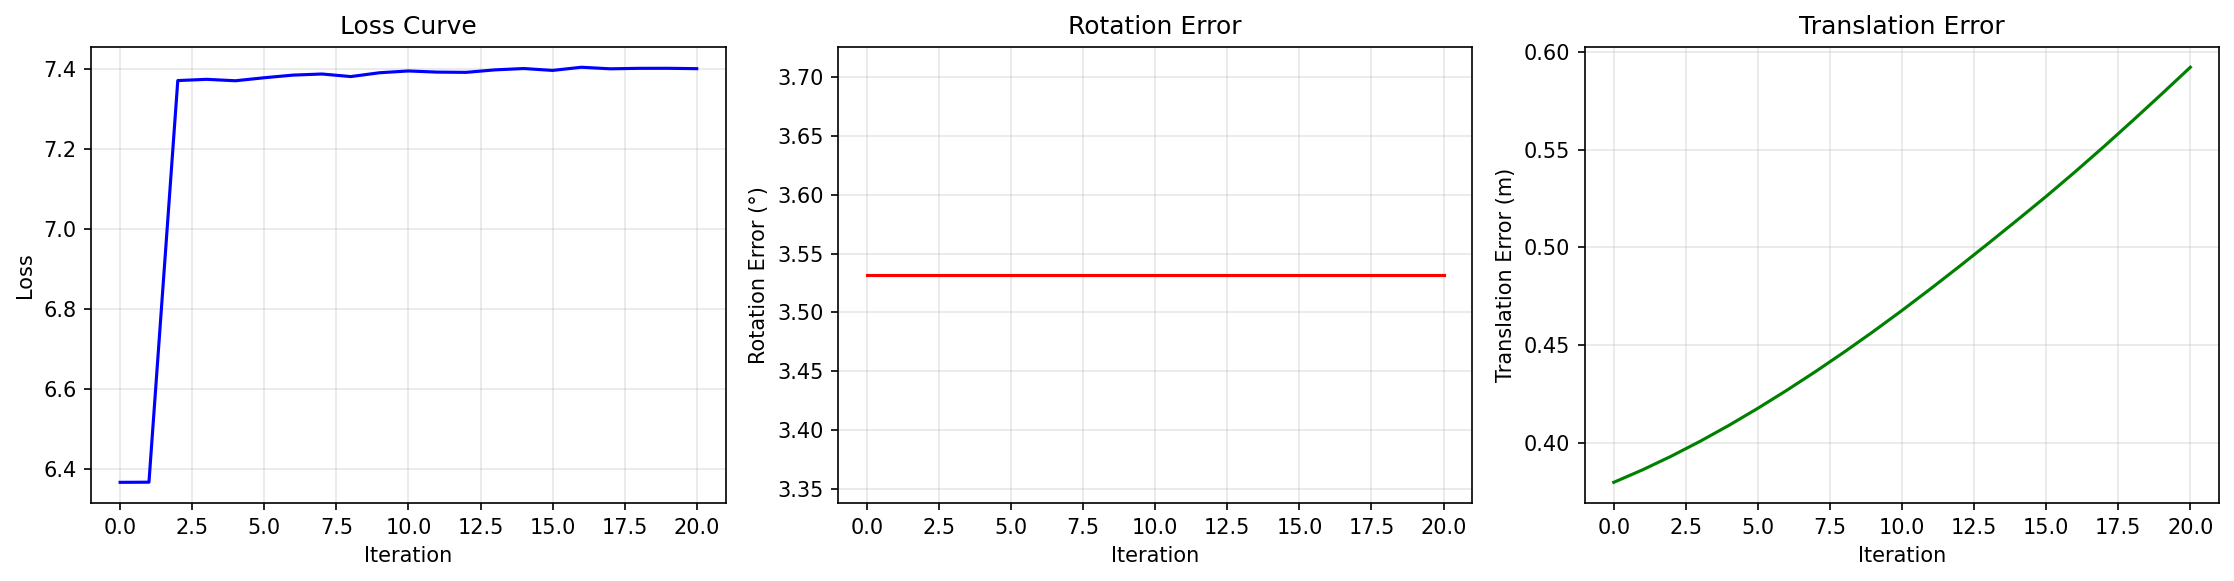
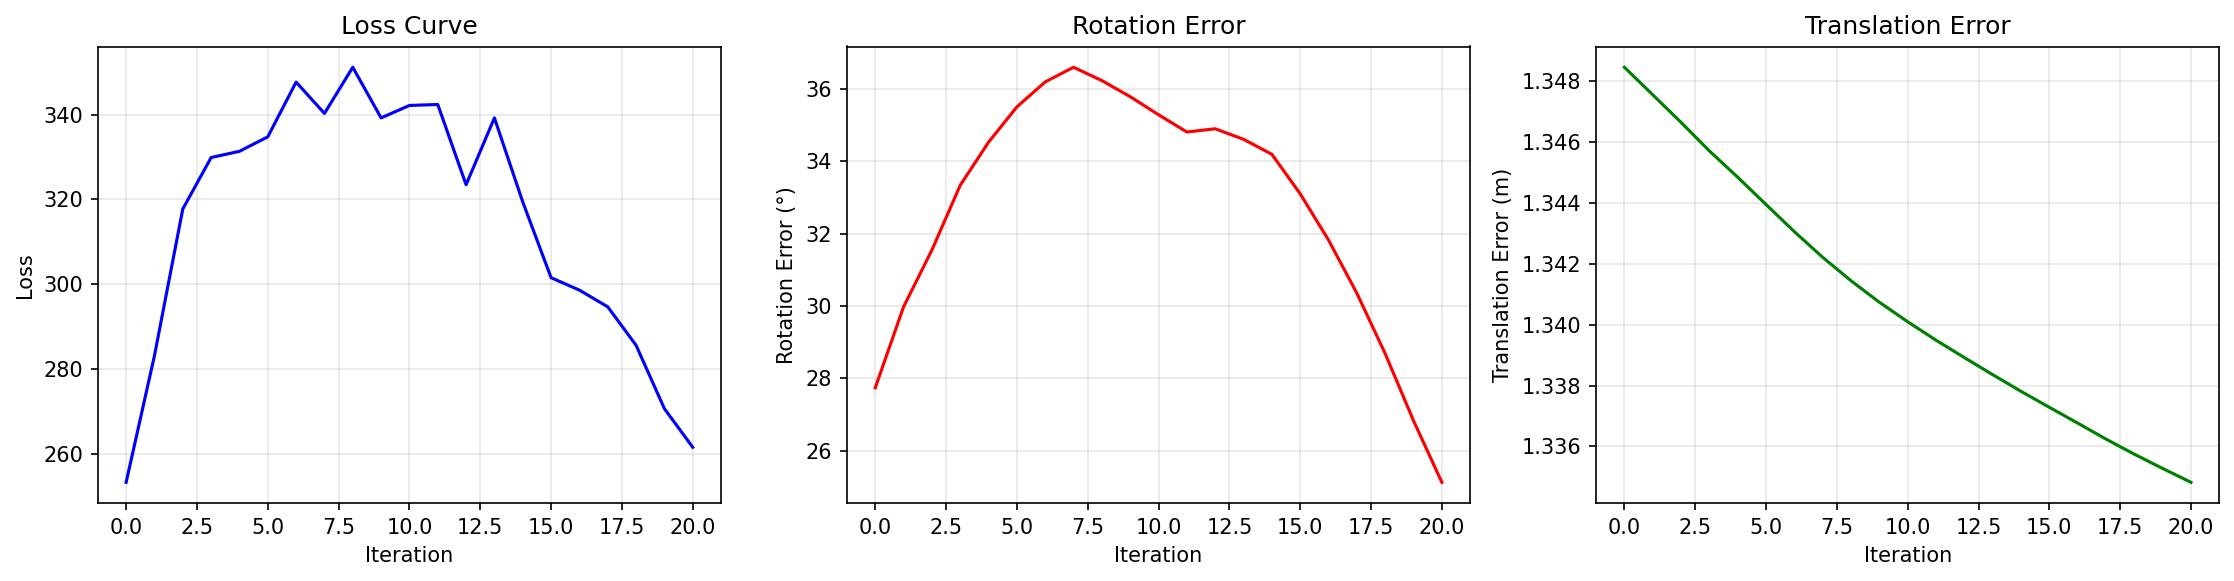
Add separate learning rates for translation and rotation in MLE
- Split SE(3) parameters into translation (xi_t) and rotation (xi_r)
- Allow different learning rates: lr_translation and lr_rotation
- Add gradient analysis: identity has zero rotation gradient
- Fix: Must use multi_init to escape identity gradient deadzone

Key findings:
1. At identity (xi=0), rotation gradient is zero (mathematical property)
2. Translation gradient dominates early optimization
3. Need careful balance of lr_translation vs lr_rotation

diff --git a/gmm_point_alignment/mle_registration/sphere_mle_loss.py b/gmm_point_alignment/mle_registration/sphere_mle_loss.py
@@ -262,7 +262,9 @@ class RegistrationConfig:
 
     Args:
         num_iters: Maximum optimization iterations (default: 100)
-        lr: Learning rate (default: 0.01)
+        lr: Base learning rate (default: 0.01)
+        lr_translation: Learning rate for translation (default: 0.01)
+        lr_rotation: Learning rate for rotation (default: 0.001)
         convergence_threshold: Loss change threshold for convergence (default: 1e-4)
         patience: Iterations without improvement before early stop (default: 20)
         multi_init: Use multiple random initializations (default: True)
@@ -279,6 +281,8 @@ class RegistrationConfig:
     """
     num_iters: int = 1000
     lr: float = 0.01
+    lr_translation: float = 0.01
+    lr_rotation: float = 0.001
     convergence_threshold: float = 1e-4
     patience: int = 20
     multi_init: bool = True
@@ -375,14 +379,27 @@ class GMMRegistration:
             params = [xi]
             log_scale = None
 
-        # Optimizer with different LR for scale
+        # Split xi into translation (first 3) and rotation (last 3)
+        xi_t = xi[:3].clone().detach().requires_grad_(True)
+        xi_r = xi[3:].clone().detach().requires_grad_(True)
+
+        # Optimizer with different LR for translation, rotation, and scale
+        # Translation usually needs larger LR, rotation needs smaller LR
+        lr_t = getattr(self.config, 'lr_translation', self.config.lr)
+        lr_r = getattr(self.config, 'lr_rotation', self.config.lr * 0.1)
+
         if self.config.use_scale:
+            log_scale = log_scale.clone().detach().requires_grad_(True)
             optimizer = torch.optim.Adam([
-                {'params': [xi], 'lr': self.config.lr},
+                {'params': [xi_t], 'lr': lr_t},
+                {'params': [xi_r], 'lr': lr_r},
                 {'params': [log_scale], 'lr': self.config.scale_lr},
             ])
         else:
-            optimizer = torch.optim.Adam([xi], lr=self.config.lr)
+            optimizer = torch.optim.Adam([
+                {'params': [xi_t], 'lr': lr_t},
+                {'params': [xi_r], 'lr': lr_r},
+            ])
 
         # LR scheduler
         if self.config.lr_scheduler:
@@ -394,7 +411,8 @@ class GMMRegistration:
 
         # Tracking
         best_loss = float('inf')
-        best_xi = xi.clone().detach()
+        best_xi_t = xi_t.clone().detach()
+        best_xi_r = xi_r.clone().detach()
         best_log_scale = log_scale.clone().detach() if self.config.use_scale else None
         patience_counter = 0
         loss_history = []
@@ -413,6 +431,9 @@ class GMMRegistration:
         for i in range(self.config.num_iters):
             optimizer.zero_grad()
 
+            # Reconstruct xi from split parameters
+            xi = torch.cat([xi_t, xi_r])
+
             # Forward
             if self.config.use_scale:
                 T = sim3_exp(xi, log_scale)
@@ -423,8 +444,9 @@ class GMMRegistration:
             # Backward
             loss.backward()
 
-            # Gradient clipping
-            torch.nn.utils.clip_grad_norm_(xi, max_norm=1.0)
+            # Gradient clipping (separate for translation and rotation)
+            torch.nn.utils.clip_grad_norm_(xi_t, max_norm=1.0)
+            torch.nn.utils.clip_grad_norm_(xi_r, max_norm=0.5)  # Smaller clip for rotation
             if self.config.use_scale:
                 torch.nn.utils.clip_grad_norm_(log_scale, max_norm=0.1)
 
@@ -440,7 +462,8 @@ class GMMRegistration:
             # Debug tracking
             if self.config.debug and self.config.debug_gt_transform is not None:
                 with torch.no_grad():
-                    # Get current transform
+                    # Reconstruct xi and get current transform
+                    xi = torch.cat([xi_t, xi_r])
                     if self.config.use_scale:
                         T_current = sim3_exp(xi, log_scale)
                         scale_val = torch.exp(log_scale).item()
@@ -481,7 +504,8 @@ class GMMRegistration:
             # Update best
             if loss_val < best_loss - self.config.convergence_threshold:
                 best_loss = loss_val
-                best_xi = xi.clone().detach()
+                best_xi_t = xi_t.clone().detach()
+                best_xi_r = xi_r.clone().detach()
                 if self.config.use_scale:
                     best_log_scale = log_scale.clone().detach()
                 patience_counter = 0
@@ -498,6 +522,7 @@ class GMMRegistration:
             # Logging
             if self.config.verbose and i % 10 == 0:
                 with torch.no_grad():
+                    xi = torch.cat([xi_t, xi_r])
                     if self.config.use_scale:
                         T_debug = sim3_exp(xi, log_scale)
                         scale_val = torch.exp(log_scale).item()
@@ -505,14 +530,17 @@ class GMMRegistration:
                         T_debug = se3_exp(xi)
                         scale_val = 1.0
                     details = self.loss_fn.forward_with_details(points, T_debug)
-                    lr_current = optimizer.param_groups[0]['lr']
+                    lr_t = optimizer.param_groups[0]['lr']
+                    lr_r = optimizer.param_groups[1]['lr']
                     scale_info = f", s={scale_val:.4f}" if self.config.use_scale else ""
                     print(f"  Iter {i:3d}: loss={loss_val:.4f}, "
                           f"inlier={details['inlier_ratio'].item():.3f}{scale_info}, "
-                          f"lr={lr_current:.4e}")
+                          f"lr_t={lr_t:.4e}, lr_r={lr_r:.4e}")
 
         # Return best result
         with torch.no_grad():
+            # Reconstruct best xi from split parameters
+            best_xi = torch.cat([best_xi_t, best_xi_r])
             if self.config.use_scale:
                 T_best = sim3_exp(best_xi, best_log_scale)
                 final_scale = torch.exp(best_log_scale)

diff --git a/gmm_point_alignment/unified_registration.py b/gmm_point_alignment/unified_registration.py
@@ -61,6 +61,8 @@ class UnifiedConfig:
     mle_voxel_factor: float = 1.0
     mle_num_iters: int = 100
     mle_lr: float = 0.01
+    mle_lr_translation: float = 0.01
+    mle_lr_rotation: float = 0.001
     mle_use_scale: bool = False
     mle_multi_init: bool = True
     mle_num_init: int = 5
@@ -155,6 +157,8 @@ class UnifiedRegistration:
         reg_config = MLERegistrationConfig(
             num_iters=self.config.mle_num_iters,
             lr=self.config.mle_lr,
+            lr_translation=self.config.mle_lr_translation,
+            lr_rotation=self.config.mle_lr_rotation,
             use_scale=self.config.mle_use_scale,
             multi_init=self.config.mle_multi_init,
             num_init=self.config.mle_num_init,

diff --git a/test_mle_debug.py b/test_mle_debug.py
@@ -58,13 +58,15 @@ config = UnifiedConfig(
     method=RegistrationMethod.MLE,
     mle_voxel_strategy="median_radius",
     mle_voxel_factor=1.0,
-    mle_num_iters=100,
+    mle_num_iters=200,
     mle_lr=0.01,
+    mle_lr_translation=0.001,  # Much smaller LR for translation
+    mle_lr_rotation=0.05,      # Larger LR for rotation
     mle_use_scale=False,
-    mle_multi_init=False,  # Single init for cleaner curves
-    mle_num_init=1,
+    mle_multi_init=True,
+    mle_num_init=5,
     mle_debug=True,
-    mle_debug_gt_transform=torch.inverse(T_true),  # Use inverse as ground truth
+    mle_debug_gt_transform=torch.inverse(T_true),
 )
 
 reg = UnifiedRegistration(config)
